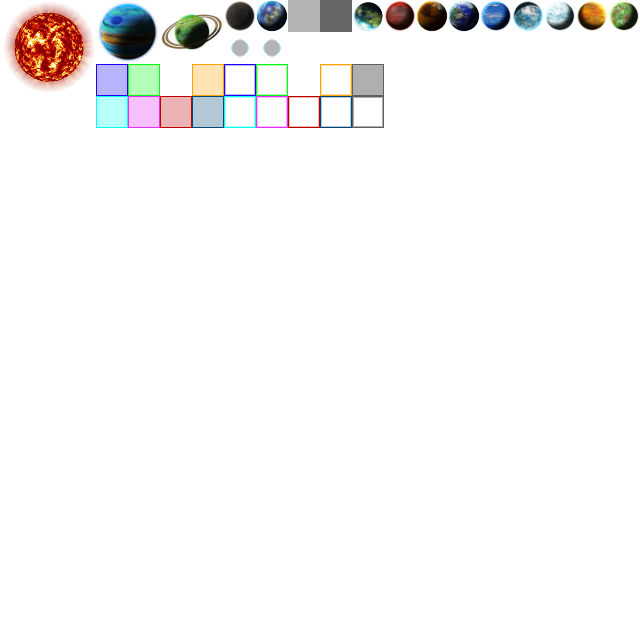
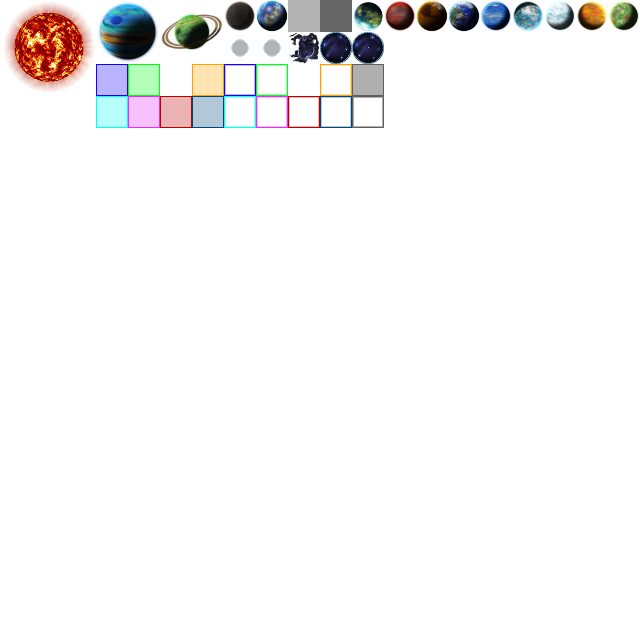
#198 Adds new tiles for space anomalies and worm holes.

Changed region(s): [[0.4375, 0.0312, 0.625, 0.125]]

diff --git a/src/main/java/org/openRealmOfStars/mapTiles/TileNames.java b/src/main/java/org/openRealmOfStars/mapTiles/TileNames.java
@@ -248,6 +248,18 @@ public final class TileNames {
    * Ship color tile for player 8 (Overlay)
    */
   public static final String PLAYER_SHIP_8 = "Player_Ship_8";
+  /**
+   * Space anomaly tile
+   */
+  public static final String SPACE_ANOMALY = "SpaceAnomaly";
+  /**
+   * Worm hole tile 1
+   */
+  public static final String WORM_HOLE1 = "WormHole1";
+  /**
+   * Worm hole tile 2
+   */
+  public static final String WORM_HOLE2 = "WormHole2";
 
   /**
    * Description about deep space anchor
@@ -263,5 +275,17 @@ public final class TileNames {
       + "objects which radiants energy into outer space. Energy is genereated"
       + " from thermonuclear fusion of hydrogen and helium in "
       + "core of the star.";
+  /**
+   * Description about space anomaly
+   */
+  public static final String SPACE_ANOMALY_DESCRIPTION = "Space anomalies are"
+      + " unknown objects floating in space. Space anomaly can be explored to"
+      + " reveal it's secrets.";
+  /**
+   * Description about space anomaly
+   */
+  public static final String WORM_HOLE_DESCRIPTION = "Worm hole is a tunnel"
+      + " between two locations in spacetime continuum. Since space is"
+      + " constantly moving also other end of tunnel is moving.";
 
 }

diff --git a/src/main/java/org/openRealmOfStars/mapTiles/Tiles.java b/src/main/java/org/openRealmOfStars/mapTiles/Tiles.java
@@ -239,6 +239,19 @@ public final class Tiles {
     addTile(tile);
     tile = new Tile(tilesImage, 11, 2, TileNames.PLAYER_8);
     addTile(tile);
+    tile = new Tile(tilesImage, 9, 1, TileNames.SPACE_ANOMALY);
+    addTile(tile);
+    // Read space anomaly
+    tile.setDescription(TileNames.SPACE_ANOMALY_DESCRIPTION);
+    tile = new Tile(tilesImage, 10, 1, TileNames.WORM_HOLE1);
+    addTile(tile);
+    tile.setDescription(TileNames.WORM_HOLE_DESCRIPTION);
+    tile.setAnimationIndex(listOfTiles.size());
+    tile = new Tile(tilesImage, 11, 1, TileNames.WORM_HOLE2);
+    addTile(tile);
+    tile.setDescription(TileNames.WORM_HOLE_DESCRIPTION);
+    tile.setAnimationIndex(getTileByName(
+        TileNames.WORM_HOLE1).getIndex());
   }
 
 }

diff --git a/src/main/java/org/openRealmOfStars/game/States/CreditsView.java b/src/main/java/org/openRealmOfStars/game/States/CreditsView.java
@@ -106,6 +106,9 @@ public class CreditsView extends BlackPanel {
       + "http://opengameart.org/content/140-military-icons-set-fixed\n\n"
       + "Music note and Speaker icon by Tuomo Untinen\n\n"
       + "Happy and Sad faces by Tuomo Untinen\n\n"
+      + "Space anomaly cloud tile by Vyntershtoff\n\n"
+      + "Wormhole tiles modifications by Tuomo Untinen\n"
+      + "Original art by Vyntershtoff\n\n"
       + "Fonts are under SIL Open Font License, Version 1.1.\n"
       + "# Fonts by\n\n"
       + "Cubellan font by Jyrki Ihalainen (yardan74@gmail.com)\n\n"

diff --git a/AUTHORS.md b/AUTHORS.md
@@ -72,6 +72,11 @@ Music note and Speaker icon by Tuomo Untinen
 
 Happy and Sad faces by Tuomo Untinen
 
+Space anomaly cloud tile by Vyntershtoff
+
+Wormhole tiles modifications by Tuomo Untinen
+Original art by Vyntershtoff
+
 Fonts are under SIL Open Font License, Version 1.1.
 # Fonts by
 
